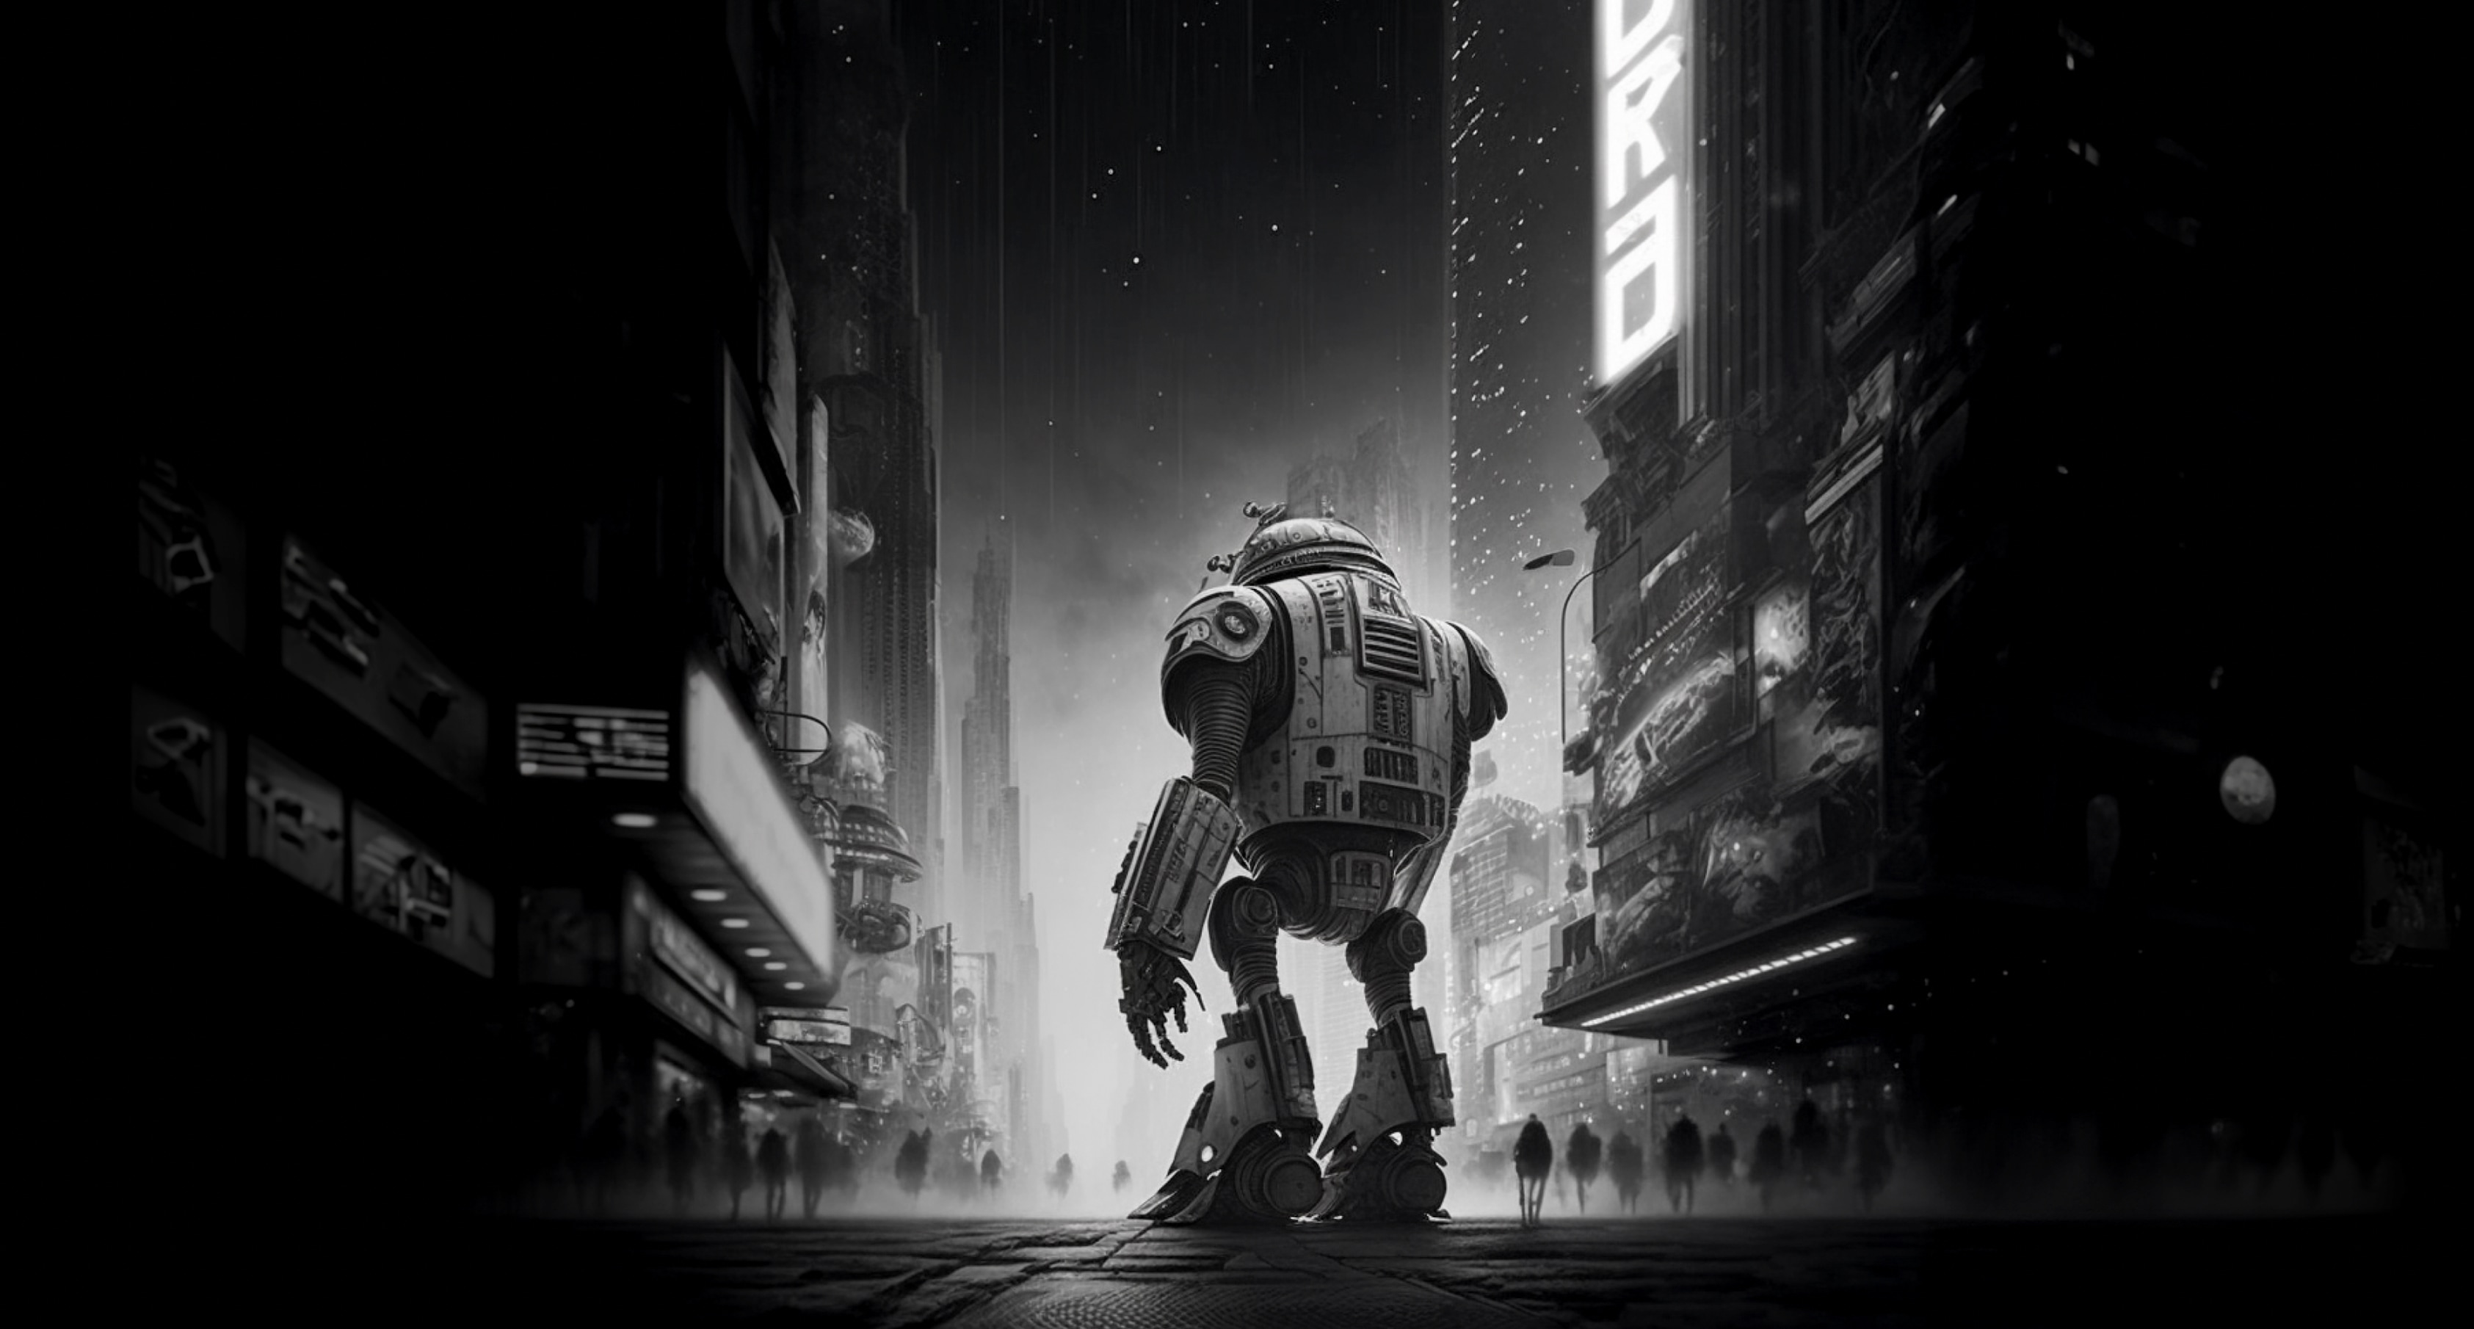
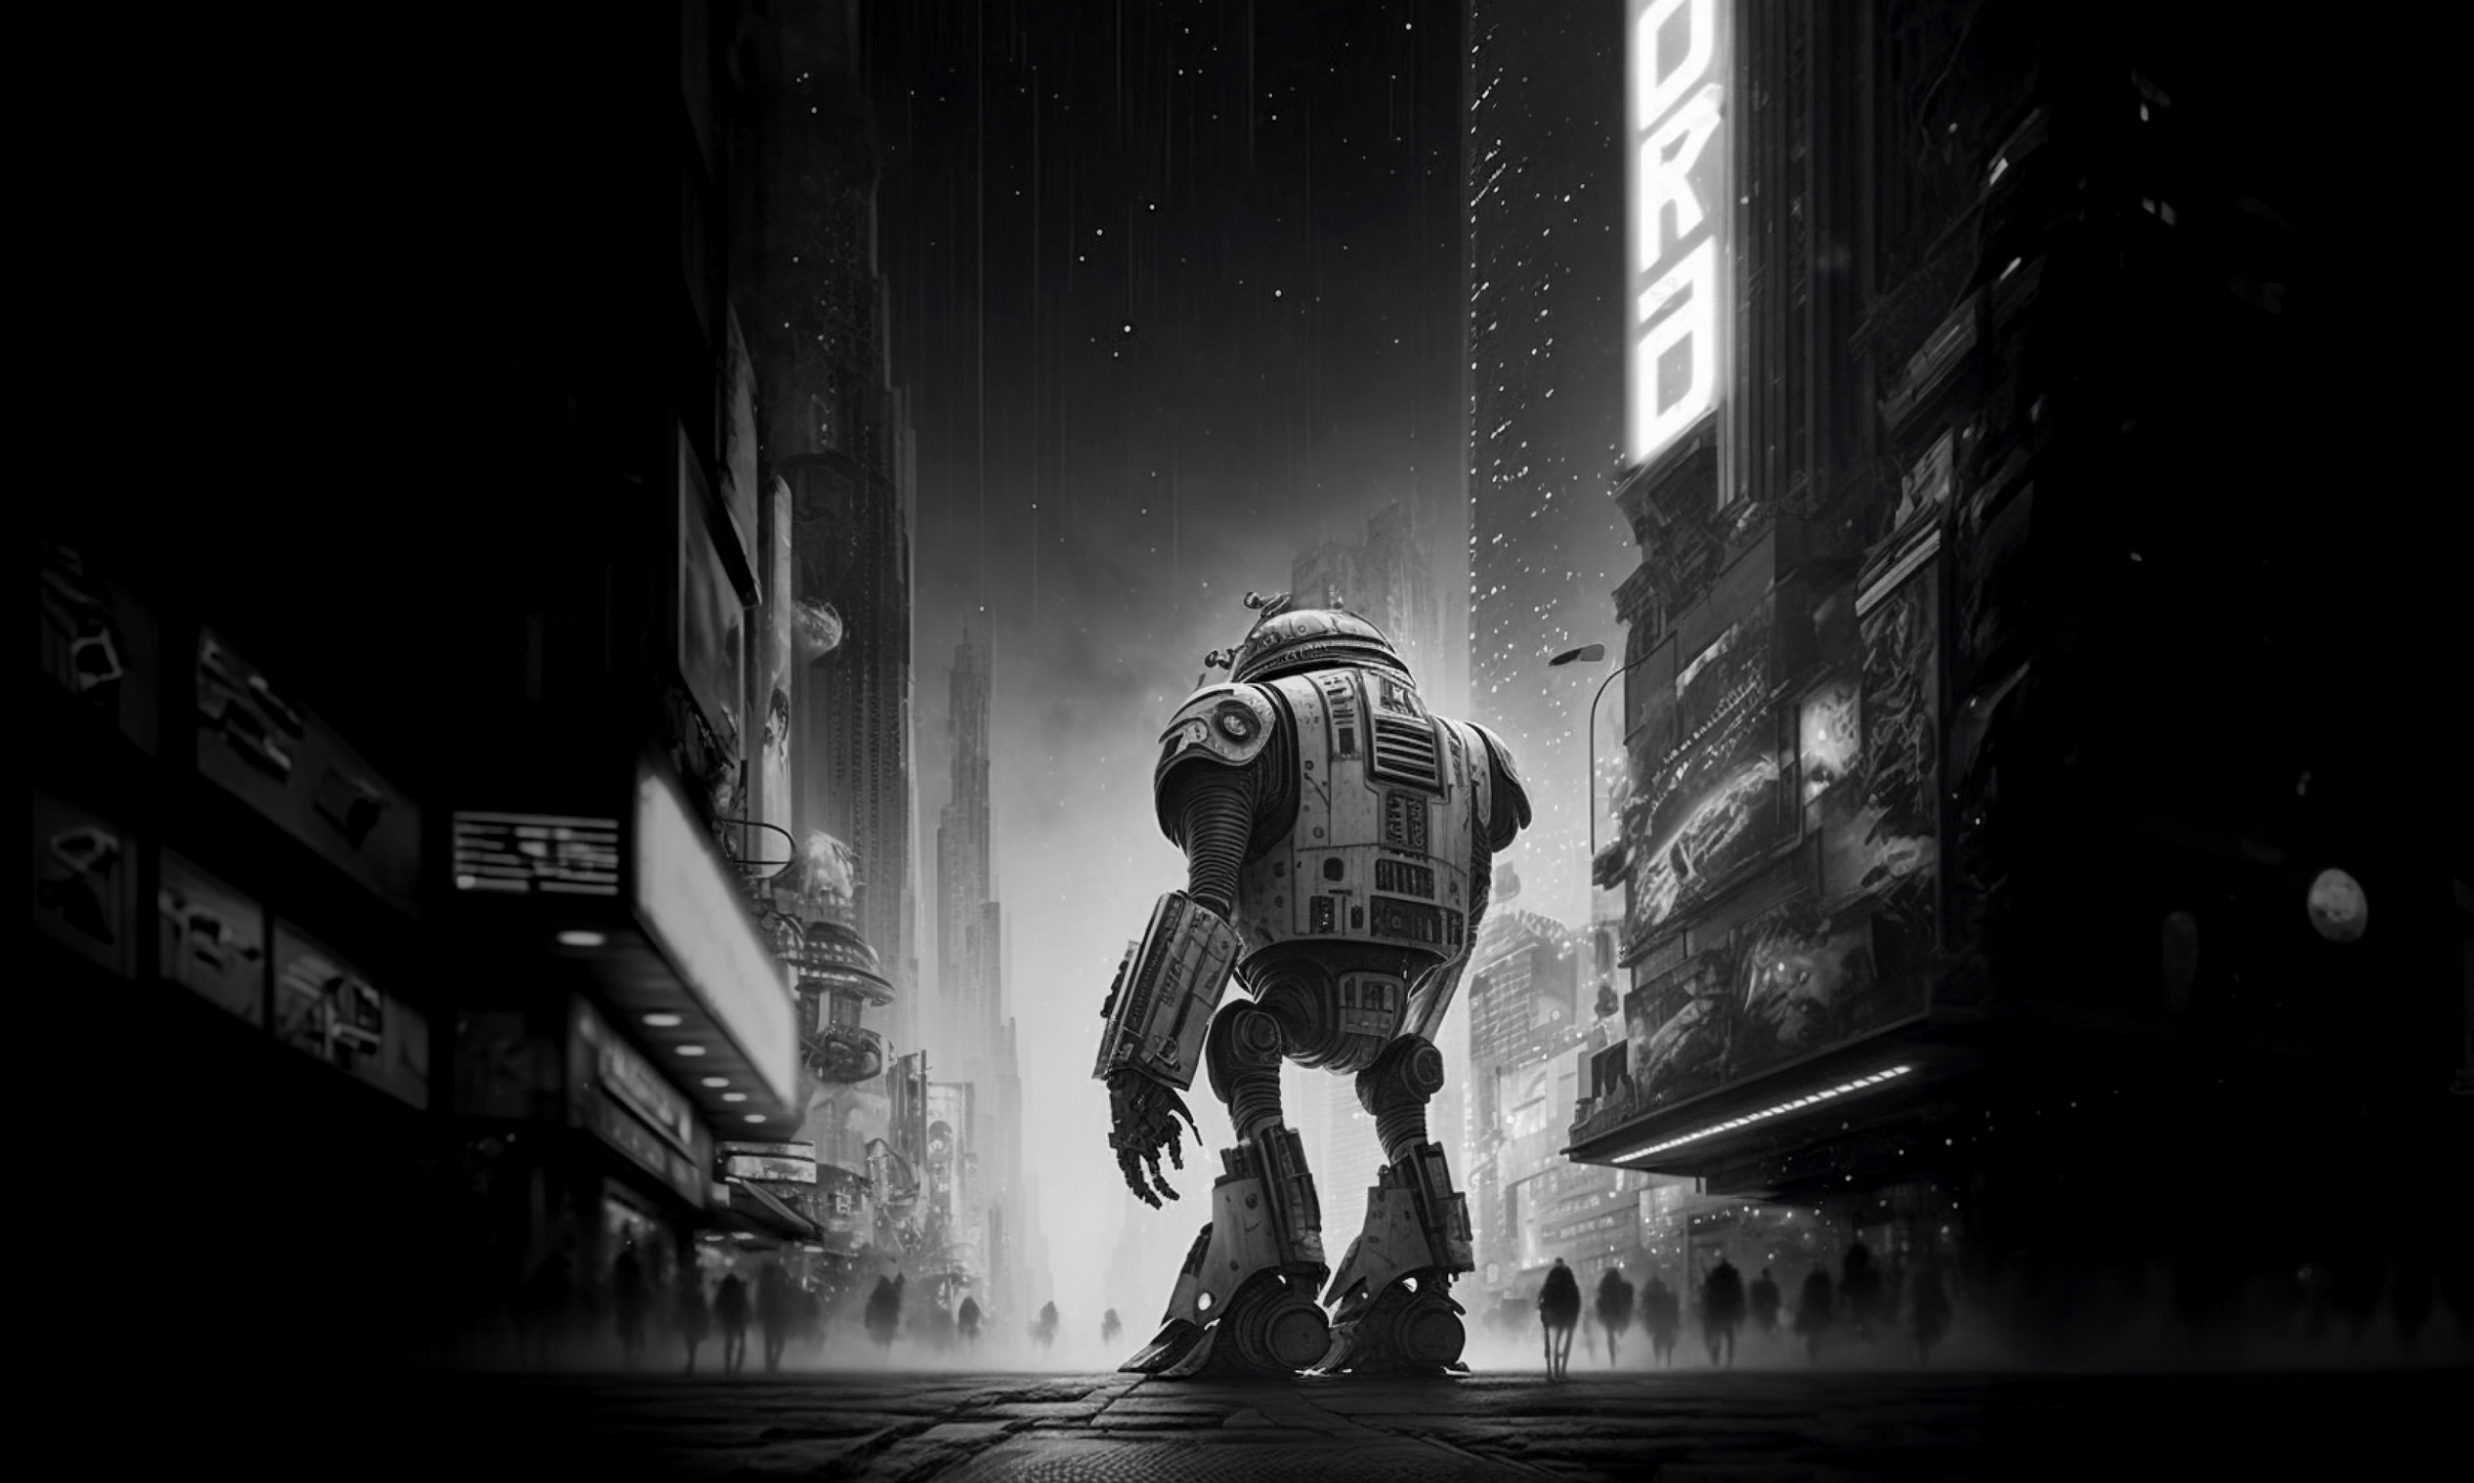
fix: dandroids

diff --git a/index.html b/index.html
@@ -160,7 +160,7 @@
 					<div class="bonus-row">
 						<div class="column-100">
 							<!-- Imagining -->
-							<a href="/imagining/"><img srcset="/filing/images/home/dandroids.jpg 1x, /filing/images/home/dandroids-2x.jpg 2x" style="width: 100%; aspect-ratio: 1665 / 895" alt="DANDRØIDS" /></a>
+							<a href="/imagining/"><img srcset="/filing/images/home/dandroids.jpg 1x, /filing/images/home/dandroids-2x.jpg 2x" style="width: 100%; aspect-ratio: 1665 / 998" alt="DANDRØIDS" /></a>
 							<p class="caption">
 								<a href="/imagining/">Imagining</a> <span class="opacity">(2022—Present)</span> <br />
 								<span class="opacity">AI. MidJourney. Bots. Prompts.</span>
